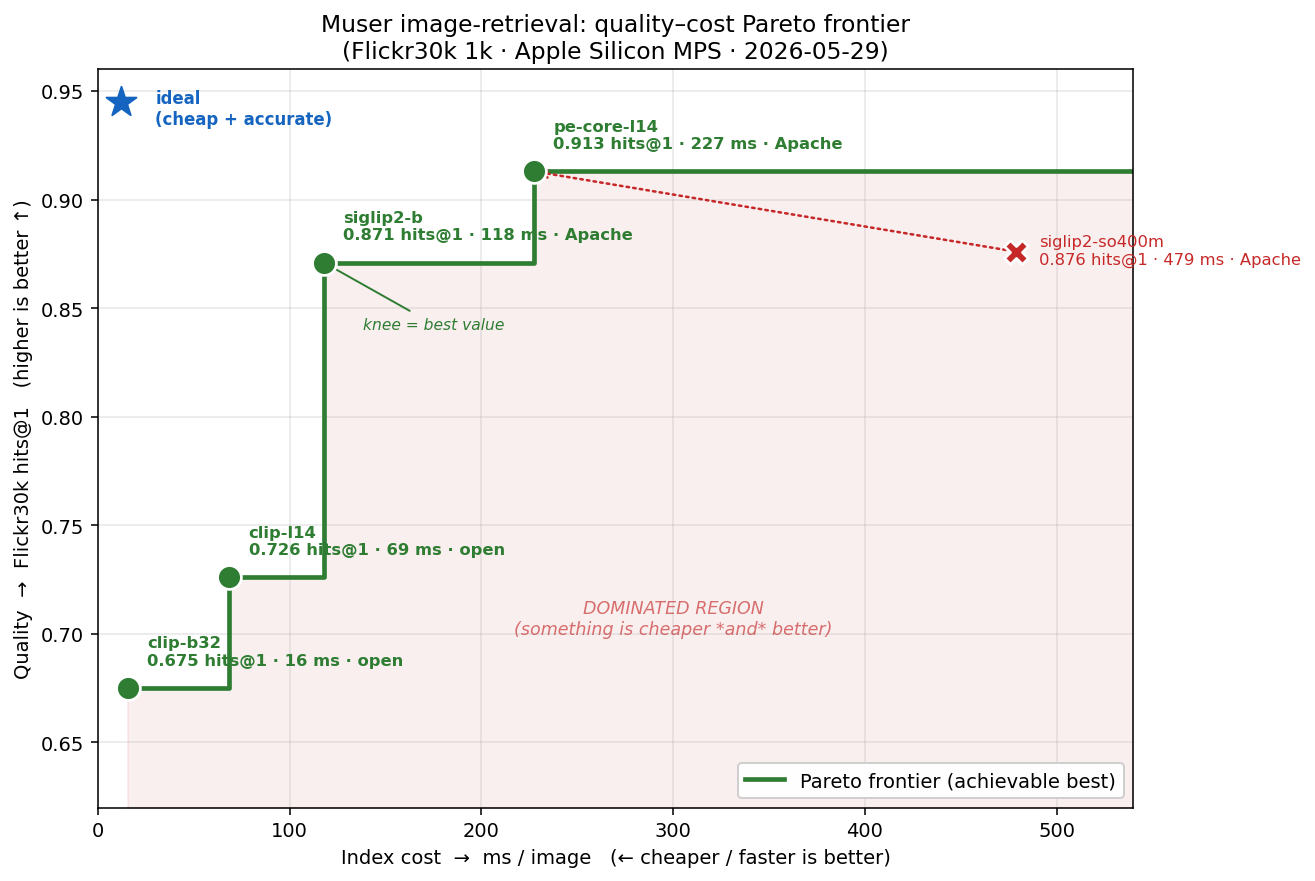
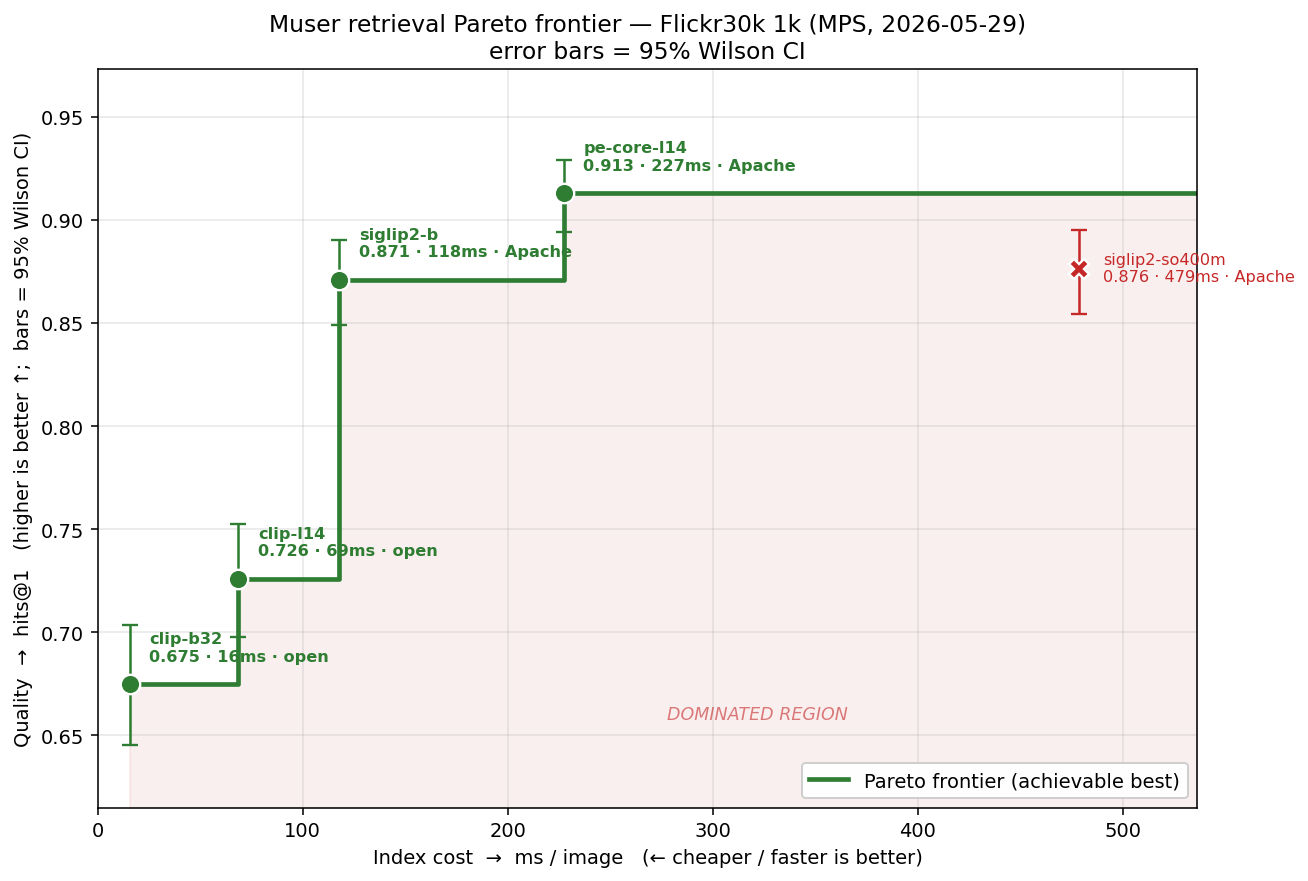
Add domain eval on user's corpus + Wilson-CI error bars on Pareto diagrams
eval/domain.py: rank models on any folder via BLIP-caption ground truth (caption =
query, source image = answer; cached). eval/plot.py: reusable Pareto plotter with
step envelope, shaded dominated region, and 95% Wilson-CI error bars.

z-to-sort domain run (n=500) flips conclusions vs Flickr: pe-core-l14 and siglip2-b
are a statistical TIE on the real corpus (PE's Flickr lead vanishes), siglip2-so400m
and clip-l14 both drop off the frontier. Confirms siglip2-b as the default for this
data. Both diagrams + results in reports/.

diff --git a/eval/plot.py b/eval/plot.py
@@ -1,0 +1,72 @@
+"""Pareto-frontier plot: step envelope + shaded dominated region + Wilson-CI error bars.
+
+data: list of {name, ms_img, hits1, n, lic}. Frontier computed from point estimates
+(minimize ms_img, maximize hits1); y error bars are 95% Wilson intervals on hits@1.
+"""
+
+from __future__ import annotations
+
+import math
+
+
+def wilson(p: float, n: int, z: float = 1.96) -> tuple[float, float]:
+    denom = 1 + z * z / n
+    center = (p + z * z / (2 * n)) / denom
+    half = z * math.sqrt(p * (1 - p) / n + z * z / (4 * n * n)) / denom
+    return center - half, center + half
+
+
+def _dominated(p, pts):
+    return any(
+        q is not p and q["ms_img"] <= p["ms_img"] and q["hits1"] >= p["hits1"]
+        and (q["ms_img"] < p["ms_img"] or q["hits1"] > p["hits1"])
+        for q in pts
+    )
+
+
+def pareto_plot(data: list[dict], title: str, outpath: str):
+    import matplotlib
+
+    matplotlib.use("Agg")
+    import matplotlib.pyplot as plt
+
+    front = sorted([p for p in data if not _dominated(p, data)], key=lambda p: p["ms_img"])
+    xmax = max(p["ms_img"] for p in data) * 1.12
+    ys = [p["hits1"] for p in data]
+    ymin, ymax = min(ys) - 0.06, min(1.0, max(ys) + 0.06)
+
+    fig, ax = plt.subplots(figsize=(9.5, 6.4), dpi=140)
+
+    # step envelope (achievable best)
+    sx, sy = [], []
+    for i, p in enumerate(front):
+        if i:
+            sx.append(p["ms_img"]); sy.append(front[i - 1]["hits1"])
+        sx.append(p["ms_img"]); sy.append(p["hits1"])
+    sx.append(xmax); sy.append(front[-1]["hits1"])
+    ax.fill_between(sx, sy, ymin, color="#c62828", alpha=0.07, zorder=0)
+    ax.plot(sx, sy, color="#2e7d32", lw=2.4, zorder=2, label="Pareto frontier (achievable best)")
+    ax.text(xmax * 0.6, ymin + (ymax - ymin) * 0.12, "DOMINATED REGION",
+            color="#c62828", alpha=0.6, fontsize=9, style="italic", ha="center")
+
+    names_front = {p["name"] for p in front}
+    for p in data:
+        on = p["name"] in names_front
+        lo, hi = wilson(p["hits1"], p["n"])
+        c = "#2e7d32" if on else "#c62828"
+        ax.errorbar([p["ms_img"]], [p["hits1"]],
+                    yerr=[[p["hits1"] - lo], [hi - p["hits1"]]],
+                    fmt="o" if on else "X", color=c, ms=10, capsize=4,
+                    elinewidth=1.3, zorder=5, markeredgecolor="white", markeredgewidth=1.2)
+        ax.annotate(f"{p['name']}\n{p['hits1']:.3f} · {p['ms_img']:.0f}ms · {p['lic']}",
+                    (p["ms_img"], p["hits1"]), textcoords="offset points",
+                    xytext=(10, 12) if on else (12, -6), fontsize=8.3,
+                    color=c, weight="bold" if on else "normal")
+
+    ax.set_xlabel("Index cost  →  ms / image   (← cheaper / faster is better)")
+    ax.set_ylabel("Quality  →  hits@1   (higher is better ↑;  bars = 95% Wilson CI)")
+    ax.set_title(title)
+    ax.set_xlim(0, xmax); ax.set_ylim(ymin, ymax); ax.grid(True, alpha=0.3)
+    ax.legend(loc="lower right", framealpha=0.95)
+    fig.tight_layout(); fig.savefig(outpath, bbox_inches="tight")
+    return [p["name"] for p in front]

diff --git a/eval/domain.py b/eval/domain.py
@@ -1,0 +1,76 @@
+"""Domain eval — rank models on the user's OWN folder, not just Flickr.
+
+Auto ground truth without hand-labeling: caption each image with a VLM (BLIP); the
+caption becomes a query whose correct answer is its source image. Retrieval is
+scored on whether the source image comes back. Captions are cached per folder so
+re-runs are instant.
+
+Caveat: in a caption-heavy/near-duplicate corpus two images can get near-identical
+captions, which depresses absolute scores — but the difficulty is identical across
+models, so the *relative* ranking stays valid.
+"""
+
+from __future__ import annotations
+
+import json
+import random
+from pathlib import Path
+
+from muser.index import walk_images
+
+from .datasets import Benchmark
+
+CAPTION_CACHE = Path.home() / ".muser" / "captions"
+
+
+def _clean_caption(c: str) -> str:
+    """Strip BLIP-large's hallucinated leading tokens (arafed/araffe/araflane/...)."""
+    c = c.strip()
+    first = c.split(" ", 1)
+    if first and first[0].lower().startswith("araf"):
+        c = first[1] if len(first) > 1 else ""
+    return c.strip()
+
+
+def caption_folder(
+    folder: str,
+    n: int = 500,
+    seed: int = 0,
+    model_id: str = "Salesforce/blip-image-captioning-large",
+    batch_size: int = 8,
+) -> Benchmark:
+    import torch
+    from transformers import BlipForConditionalGeneration, BlipProcessor
+
+    from muser.embedders import _device, _load_rgb
+
+    random.seed(seed)
+    imgs = walk_images(folder)
+    sample = sorted(random.sample(imgs, min(n, len(imgs))))
+
+    cache_path = CAPTION_CACHE / (Path(folder).name + ".json")
+    cache_path.parent.mkdir(parents=True, exist_ok=True)
+    cache = json.loads(cache_path.read_text()) if cache_path.exists() else {}
+
+    todo = [p for p in sample if p not in cache]
+    if todo:
+        dev = _device()
+        proc = BlipProcessor.from_pretrained(model_id)
+        model = BlipForConditionalGeneration.from_pretrained(model_id).to(dev).eval()
+        with torch.inference_mode():
+            for i in range(0, len(todo), batch_size):
+                chunk = todo[i : i + batch_size]
+                inp = proc(images=[_load_rgb(p) for p in chunk], return_tensors="pt").to(dev)
+                caps = proc.batch_decode(model.generate(**inp, max_new_tokens=40), skip_special_tokens=True)
+                for p, c in zip(chunk, caps):
+                    cache[p] = _clean_caption(c)
+                cache_path.write_text(json.dumps(cache))
+                print(f"  captioned {min(i + batch_size, len(todo))}/{len(todo)}", end="\r", flush=True)
+        print()
+
+    queries, qrels = [], {}
+    for j, p in enumerate(sample):
+        qid = f"q{j}"
+        queries.append((qid, cache[p]))
+        qrels[qid] = {p: 1}
+    return Benchmark(f"{Path(folder).name}-domain", sample, queries, qrels)

diff --git a/reports/2026-05-29-model-benchmark.md b/reports/2026-05-29-model-benchmark.md
@@ -27,6 +27,40 @@ Same eval for all five (1000 images, 1000 caption queries, `ranx` metrics).
 | clip-l14 | 0.726 | 0.920 | 0.963 | 0.847 | 69 | open (OpenAI) | ✓ |
 | clip-b32 | 0.675 | 0.897 | 0.938 | 0.811 | 16 | open (OpenAI) | ✓ speed floor |
 
+## Domain eval — `z-to-sort` (the user's real corpus)
+
+Flickr is general photos; the real corpus is creative/AI-gen/screenshot imagery.
+Ground truth auto-generated: each of 500 sampled images captioned with BLIP-large;
+the caption is the query, its source image the correct answer (`eval/domain.py`).
+Absolute scores are lower than Flickr (BLIP captions on a near-duplicate-heavy dump
+are less discriminative) but difficulty is identical across models, so the ranking
+holds. Error bars = 95% Wilson CI.
+
+![Pareto frontier — z-to-sort](pareto-ztosort.png)
+
+| model | hits@1 | ndcg@10 | ms/img | license | frontier |
+|---|---|---|---|---|---|
+| pe-core-l14 | 0.782 | 0.881 | 131 | Apache | ✓ |
+| **siglip2-b** | 0.770 | 0.877 | 87 | Apache | ✓ best value |
+| siglip2-so400m | 0.708 | 0.819 | 289 | Apache | ✗ dominated |
+| clip-b32 | 0.560 | 0.714 | 30 | open | ✓ floor |
+| clip-l14 | 0.550 | 0.694 | 61 | open | ✗ dominated |
+
+**What domain eval changed vs. Flickr (why it was worth running):**
+- **pe-core-l14 ≈ siglip2-b — a statistical tie** here (0.782 vs 0.770, < 1 SE at
+  n=500; CIs overlap heavily). PE's real Flickr lead **disappears on this corpus** →
+  siglip2-b (tied, faster, clean install) is the clear pick for *this* data.
+- **siglip2-so400m falls clearly below siglip2-b** (0.708 vs 0.770, ~3 SE) — on
+  Flickr they tied; here so400m is worse *and* 3× slower. Doubly dominated.
+- **clip-l14 ≤ clip-b32** (0.550 vs 0.560) — the Flickr ordering reverses; clip-l14
+  drops *off* the frontier. clip-b32 is the only CLIP worth keeping (speed floor).
+- The SigLIP/PE tier beats the CLIP tier by **~22 pts** (vs ~15 on Flickr) — model
+  choice matters *more* on the real creative/screenshot mix.
+
+**Domain frontier:** `clip-b32` → `siglip2-b` → `pe-core-l14`. Verdict for the user's
+data: **siglip2-b is the default** (tied-best quality, fastest top-tier, Apache, clean
+install); pe-core-l14's edge isn't worth its install friction here.
+
 ## Other models tested today (not on the 1k axis)
 
 Smaller/earlier evals or disqualified — shown for completeness.
